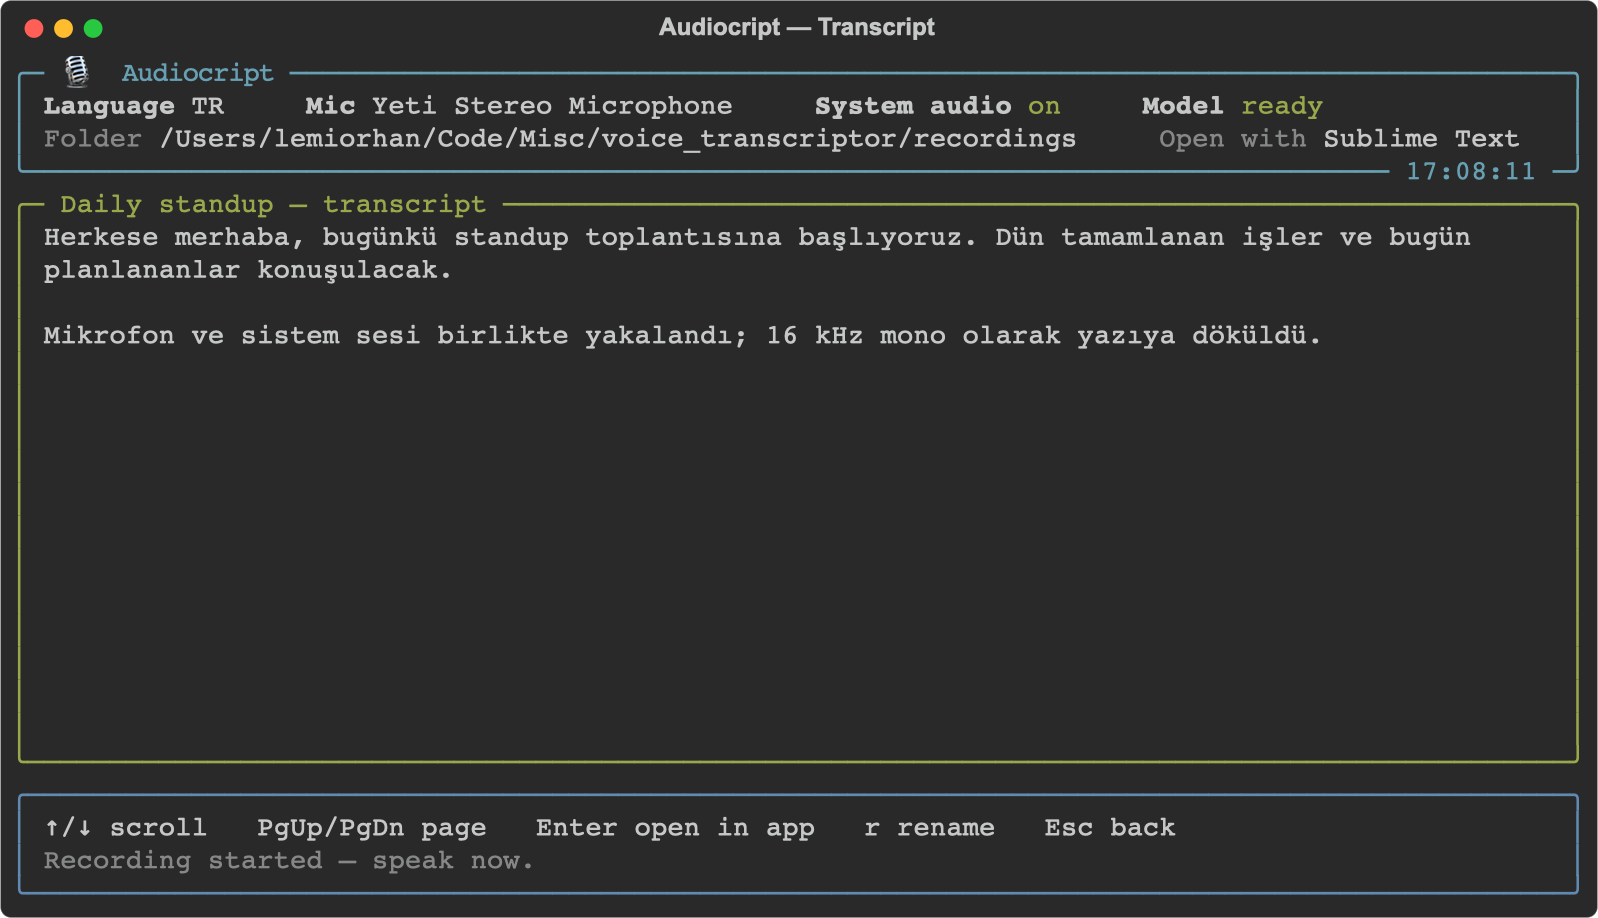
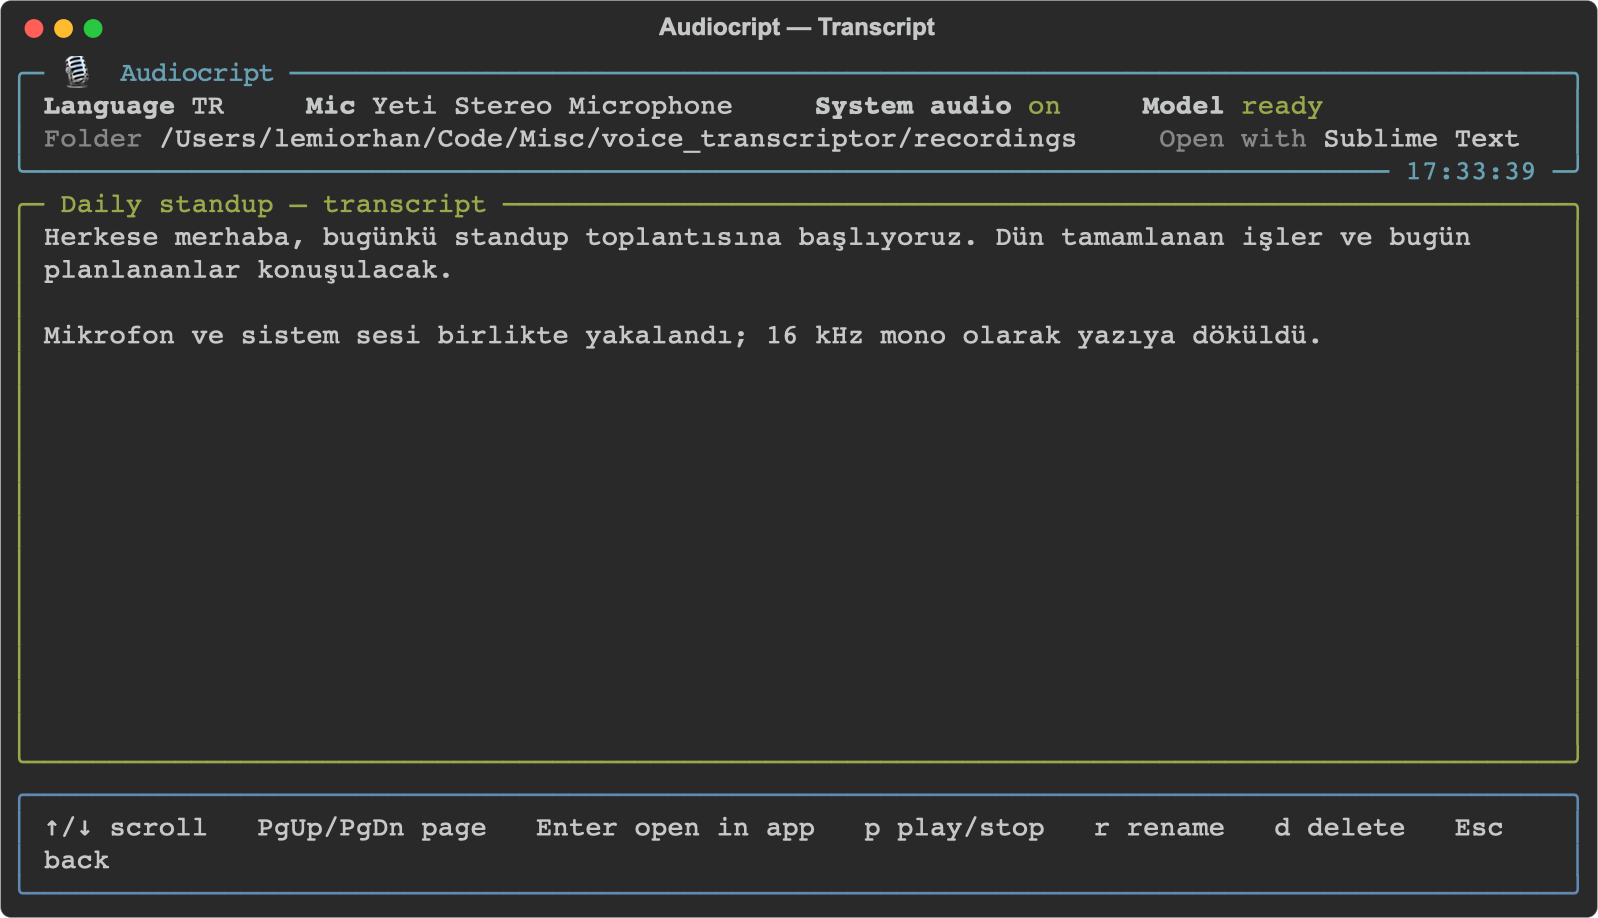
Add per-recording actions: play/stop audio and delete (+ existing view/rename)
In the menu (on a selected recording) and in the transcript viewer you can now:
- p: play / stop the recording's audio (afplay subprocess; playback continues
  while you browse, shown as '▶ playing …' in the footer; stops on quit and when
  a new recording starts).
- d: delete the recording (and its files) after a y/N confirmation screen.
- (already present) Enter: view the scrollable transcript / open externally;
  r: rename.

Footer hints are now context-aware (recording vs group). Regenerated the menu and
viewer screenshots to reflect the recording-action footers.

Verified (unit): play start/stop/toggle/switch, delete with confirm + cancel,
menu/viewer key handling, footer hints + playing indicator, confirm-delete render.

diff --git a/audiocript.py b/audiocript.py
@@ -803,6 +803,65 @@ class _TuiState:
         self.rename_buffer = ""
         self.rename_target = None               # project dir being renamed
         self.rename_return = "menu"
+        # audio playback (afplay) + delete confirmation
+        self.player_proc = None
+        self.player_rec_dir = None
+        self.player_name = ""
+        self.delete_target = None
+        self.delete_name = ""
+        self.delete_return = "menu"
+
+
+def _player_active(state):
+    return state.player_proc is not None and state.player_proc.poll() is None
+
+
+def _stop_play(state):
+    if state.player_proc is not None:
+        try:
+            if state.player_proc.poll() is None:
+                state.player_proc.terminate()
+        except Exception:
+            pass
+    state.player_proc = None
+    state.player_rec_dir = None
+
+
+def _toggle_play(state, rec):
+    """Play the recording's audio with afplay, or stop it if it's already playing."""
+    if _player_active(state) and state.player_rec_dir == rec["dir"]:
+        _stop_play(state)
+        state.status = "Playback stopped"
+        return
+    _stop_play(state)                       # stop any other playback first
+    ap = rec["dir"] / "audio.wav"
+    if not ap.exists():
+        state.status = "No audio file to play"
+        return
+    afplay = shutil.which("afplay")
+    if not afplay:
+        state.status = "afplay not found"
+        return
+    try:
+        state.player_proc = subprocess.Popen(
+            [afplay, str(ap)], stdout=subprocess.DEVNULL, stderr=subprocess.DEVNULL)
+        state.player_rec_dir = rec["dir"]
+        state.player_name = _rec_display_name(rec)
+        state.status = f"Playing “{state.player_name}”"
+    except Exception as e:
+        state.status = f"Play error: {e}"
+
+
+def _delete_recording(state, target):
+    if _player_active(state) and state.player_rec_dir == target:
+        _stop_play(state)
+    try:
+        shutil.rmtree(target)
+        state.status = "Recording deleted"
+    except Exception as e:
+        state.status = f"Delete error: {e}"
+    state.recordings = list_recordings(state.base_path)
+    state.menu_index = min(state.menu_index, max(0, len(_menu_items(state)) - 1))
 
 
 def _warm_model_async(state, language):
@@ -1051,26 +1110,45 @@ def _tui_body(state):
             Text(state.rename_buffer + "▏"),
         )
         return Panel(body, title="Rename recording", border_style="cyan")
+    if state.mode == "confirm_delete":
+        body = Group(
+            Text.from_markup(f"Delete [bold]“{state.delete_name or 'Untitled'}”[/bold] and its files?"),
+            Text(""),
+            Text.from_markup("[red]This cannot be undone.[/red]   Press [bold]y[/bold] to delete, any other key to cancel."),
+        )
+        return Panel(body, title="Delete recording", border_style="red")
     # default: the main menu
     return _render_menu(state)
 
 
 def _tui_footer(state):
     keymap = {
-        "menu": "↑/↓ move   Enter open/expand   →/← expand/collapse   q quit",
         "preparing": "please wait…",
         "importing": "importing… please wait",
         "recording": "[q] Stop & transcribe",
         "transcribing": "working…",
-        "viewer": "↑/↓ scroll   PgUp/PgDn page   Enter open in app   r rename   Esc back",
+        "viewer": "↑/↓ scroll   PgUp/PgDn page   Enter open in app   p play/stop   r rename   d delete   Esc back",
         "name_input": "[Enter] Start   [Esc] Cancel",
         "rename": "[Enter] Save   [Backspace] Delete   [Esc] Cancel",
+        "confirm_delete": "[y] Delete   any other key: Cancel",
         "mic_picker": "[1-9] Select   [Esc] Cancel",
         "path_edit": "[Enter] Save   [Backspace] Delete   [Esc] Cancel",
         "app_picker": "[1-9] Select   [0] Off   [Enter] First match   type to filter   [Esc] Cancel",
     }
-    keys = Text(keymap.get(state.mode, ""))          # plain Text: brackets shown literally
-    status = Text(state.status or "", style="dim")
+    if state.mode == "menu":
+        items = _menu_items(state)
+        sel = items[state.menu_index] if 0 <= state.menu_index < len(items) else None
+        if sel and sel["kind"] == "recording":
+            keystr = "↑/↓ move   Enter view   p play/stop   r rename   d delete   q quit"
+        else:
+            keystr = "↑/↓ move   Enter open/expand   →/← expand/collapse   q quit"
+    else:
+        keystr = keymap.get(state.mode, "")
+    keys = Text(keystr)                               # plain Text: brackets shown literally
+    if _player_active(state):
+        status = Text(f"▶ playing “{state.player_name}”  ·  p to stop", style="green")
+    else:
+        status = Text(state.status or "", style="dim")
     return Panel(Group(keys, status), border_style="blue")
 
 
@@ -1096,6 +1174,7 @@ def _start_recording(state, live):
         state.status = msg
         live.update(_tui_render(state))
 
+    _stop_play(state)                 # don't capture our own playback
     state.mode = "preparing"
     announce("Creating project folder…")
 
@@ -1389,8 +1468,16 @@ def _tui_handle_key(key, state, live):
             if cur["kind"] == "action" and cur["action"] == "quit":
                 return False
             _menu_activate(state, live, cur)
-        elif key in ("r", "R") and cur["kind"] == "recording":
-            _start_rename(state, cur["rec"], "menu")
+        elif cur["kind"] == "recording":
+            if key in ("r", "R"):
+                _start_rename(state, cur["rec"], "menu")
+            elif key in ("p", "P"):
+                _toggle_play(state, cur["rec"])
+            elif key in ("d", "D"):
+                state.delete_target = cur["rec"]["dir"]
+                state.delete_name = _rec_display_name(cur["rec"])
+                state.delete_return = "menu"
+                state.mode = "confirm_delete"
     elif mode == "name_input":
         if key == "ESC":
             state.mode = "menu"
@@ -1436,6 +1523,13 @@ def _tui_handle_key(key, state, live):
                     state.status = "Opened transcript"
                 except Exception as e:
                     state.status = f"Open error: {e}"
+        elif key in ("p", "P"):
+            _toggle_play(state, state.viewer_rec)
+        elif key in ("d", "D"):
+            state.delete_target = state.viewer_rec["dir"]
+            state.delete_name = _rec_display_name(state.viewer_rec)
+            state.delete_return = "menu"          # the recording is gone after delete
+            state.mode = "confirm_delete"
         elif key in ("r", "R"):
             _start_rename(state, state.viewer_rec, "viewer")
     elif mode == "rename":
@@ -1454,6 +1548,14 @@ def _tui_handle_key(key, state, live):
             state.rename_buffer = state.rename_buffer[:-1]
         elif key and len(key) == 1 and key.isprintable():
             state.rename_buffer += key
+    elif mode == "confirm_delete":
+        if key in ("y", "Y"):
+            _delete_recording(state, state.delete_target)
+            if state.viewer_rec and state.viewer_rec.get("dir") == state.delete_target:
+                state.viewer_rec = None
+            state.mode = "menu"
+        else:
+            state.mode = state.delete_return
     elif mode == "recording":
         if key in ("q", "Q", "r", "R", " "):
             _stop_and_transcribe(state, live)
@@ -1548,12 +1650,13 @@ def main():
                 running = _tui_handle_key(key, state, live)
     finally:
         # Stop any active recorders (e.g. Ctrl-C mid-recording) so the tap
-        # subprocess never lingers.
+        # subprocess never lingers, and stop any audio playback.
         for r in getattr(state, "recorders", []) or []:
             try:
                 r.stop()
             except Exception:
                 pass
+        _stop_play(state)
 
 
 def _handle_sigterm(signum, frame):

diff --git a/README.md b/README.md
@@ -97,17 +97,21 @@ Audiocript is a full-screen app you drive with the **arrow keys**.
 
 | Context | Keys |
 |---------|------|
-| **Menu** | `↑`/`↓` move · `Enter` open/expand · `→`/`←` expand/collapse · `r` rename selected recording · `q` quit |
-| **Transcript viewer** | `↑`/`↓` scroll · `PgUp`/`PgDn` page · `Enter` open in external app · `r` rename · `Esc` back |
+| **Menu** | `↑`/`↓` move · `Enter` open/expand · `→`/`←` expand/collapse · `q` quit |
+| **Menu — on a recording** | `Enter` view transcript · `p` play/stop audio · `r` rename · `d` delete |
+| **Transcript viewer** | `↑`/`↓` scroll · `PgUp`/`PgDn` page · `Enter` open in external app · `p` play/stop · `r` rename · `d` delete · `Esc` back |
 | **Text fields** (name / rename / folder / app filter) | type · `Enter` confirm · `Esc` cancel |
 | **Microphone / app pickers** | `1`–`9` select · `Esc` cancel |
+| **Delete confirmation** | `y` delete · any other key cancels |
 
 The menu groups everything:
 
 - **New recording** / **Import file** — you're asked for a name first (optional),
   then it records (or opens a file picker for `mp4`/`mov`/`wav`/`mp3`/`m4a`).
-- **Recordings** — every project (name · date · language). Select one to open the
-  in-app transcript viewer; `Enter` opens it in your external app; `r` renames it.
+- **Recordings** — every project (name · date · language). On a selected recording
+  you can **view** the transcript (`Enter`), **play/stop** its audio (`p`),
+  **rename** it (`r`), or **delete** it (`d`, with confirmation). Inside the viewer
+  the transcript scrolls and `Enter` opens it in your external app.
 - **Settings** — language (TR/EN), microphone, system-audio capture, the
   "open with" app, and the recordings folder.
 

diff --git a/CHANGELOG.md b/CHANGELOG.md
@@ -26,6 +26,9 @@ All notable changes to this project are documented here. The format is based on
 - **Recordings list**: browse all recordings (name, date, language) in the menu.
 - **In-app transcript viewer**: open a recording to read its transcript with
   scrolling (↑/↓, PgUp/PgDn, Home/End); `Enter` opens it in your external app.
+- **Per-recording actions** from the menu and viewer: **play/stop** the audio
+  (`p`, via afplay), **delete** a recording with confirmation (`d`), in addition
+  to rename (`r`) and view.
 - Full-screen terminal UI (Rich).
 - Record the **microphone and system audio together**, mixed into one 16 kHz mono
   track for transcription.